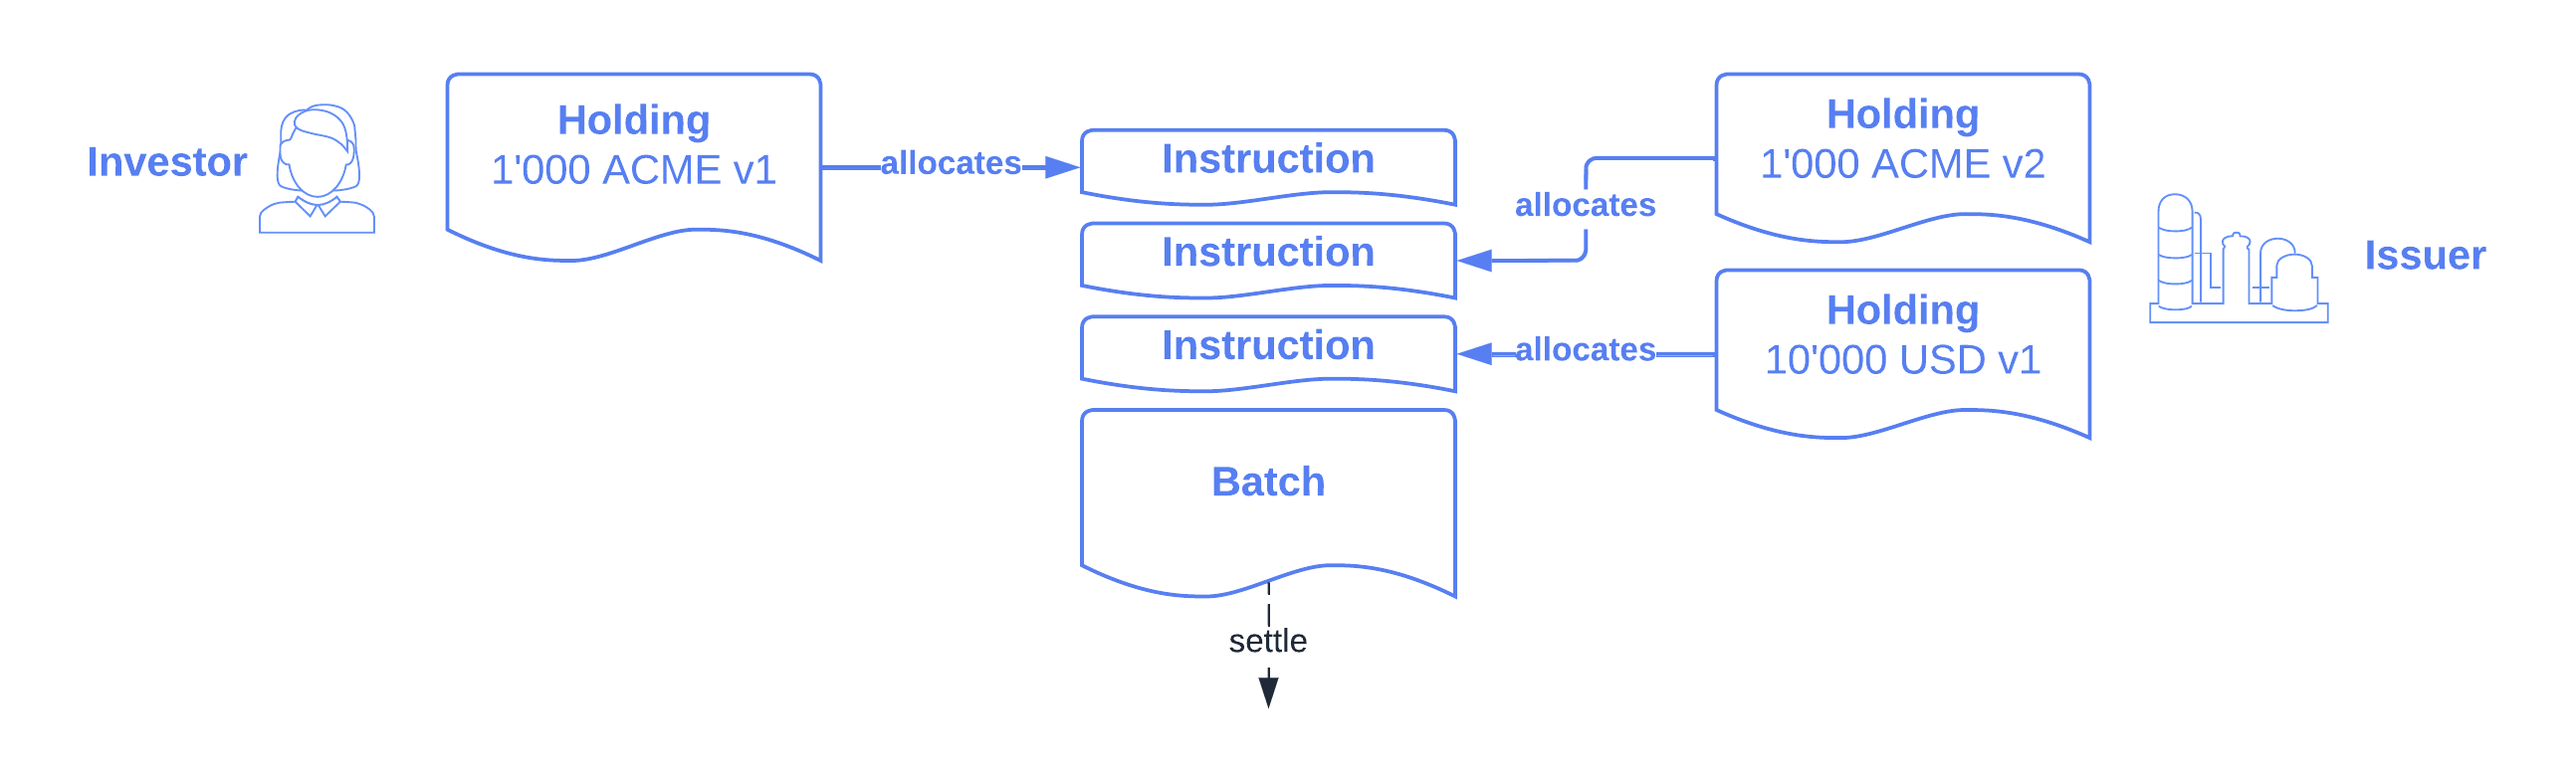
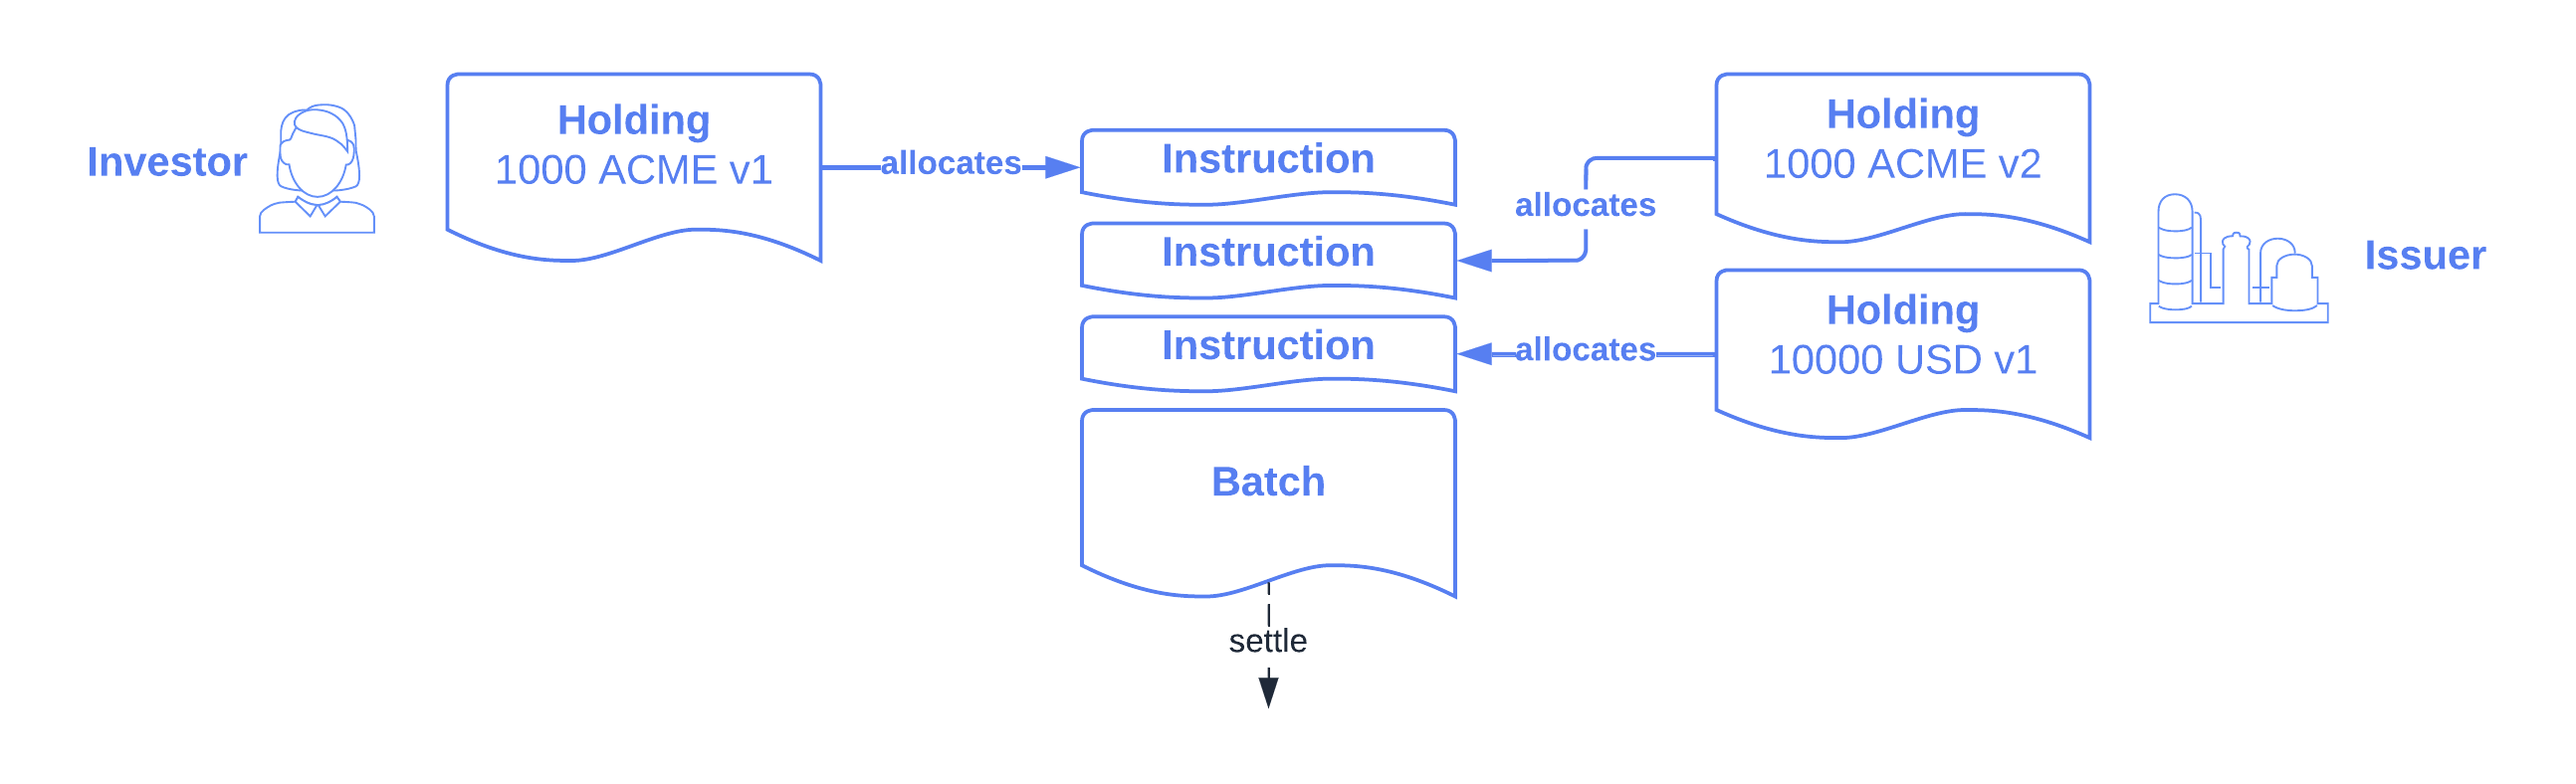
Align the use of 1000-separator

Changed region(s): [[0.6801, 0.4264, 0.8037, 0.4873], [0.6801, 0.1827, 0.8037, 0.2437], [0.1855, 0.1827, 0.3091, 0.2437]]

diff --git a/docs/source/concepts/lifecycling.rst b/docs/source/concepts/lifecycling.rst
@@ -151,8 +151,8 @@ The following picture shows the three asset movements involved in this particula
          allocates a 1000 ACME v2 holding to the second instruction and a 10000 USD holding to the
          third.
 
-The result of processing the settlement batch results in the investor receiving a 10'000 USD
-dividend and 1'000 shares of ``ACME`` v2 in return for their 1'000 shares of ``ACME`` v1.
+The result of processing the settlement batch results in the investor receiving a 10000 USD
+dividend and 1000 shares of ``ACME`` v2 in return for their 1000 shares of ``ACME`` v1.
 
 Components
 **********
